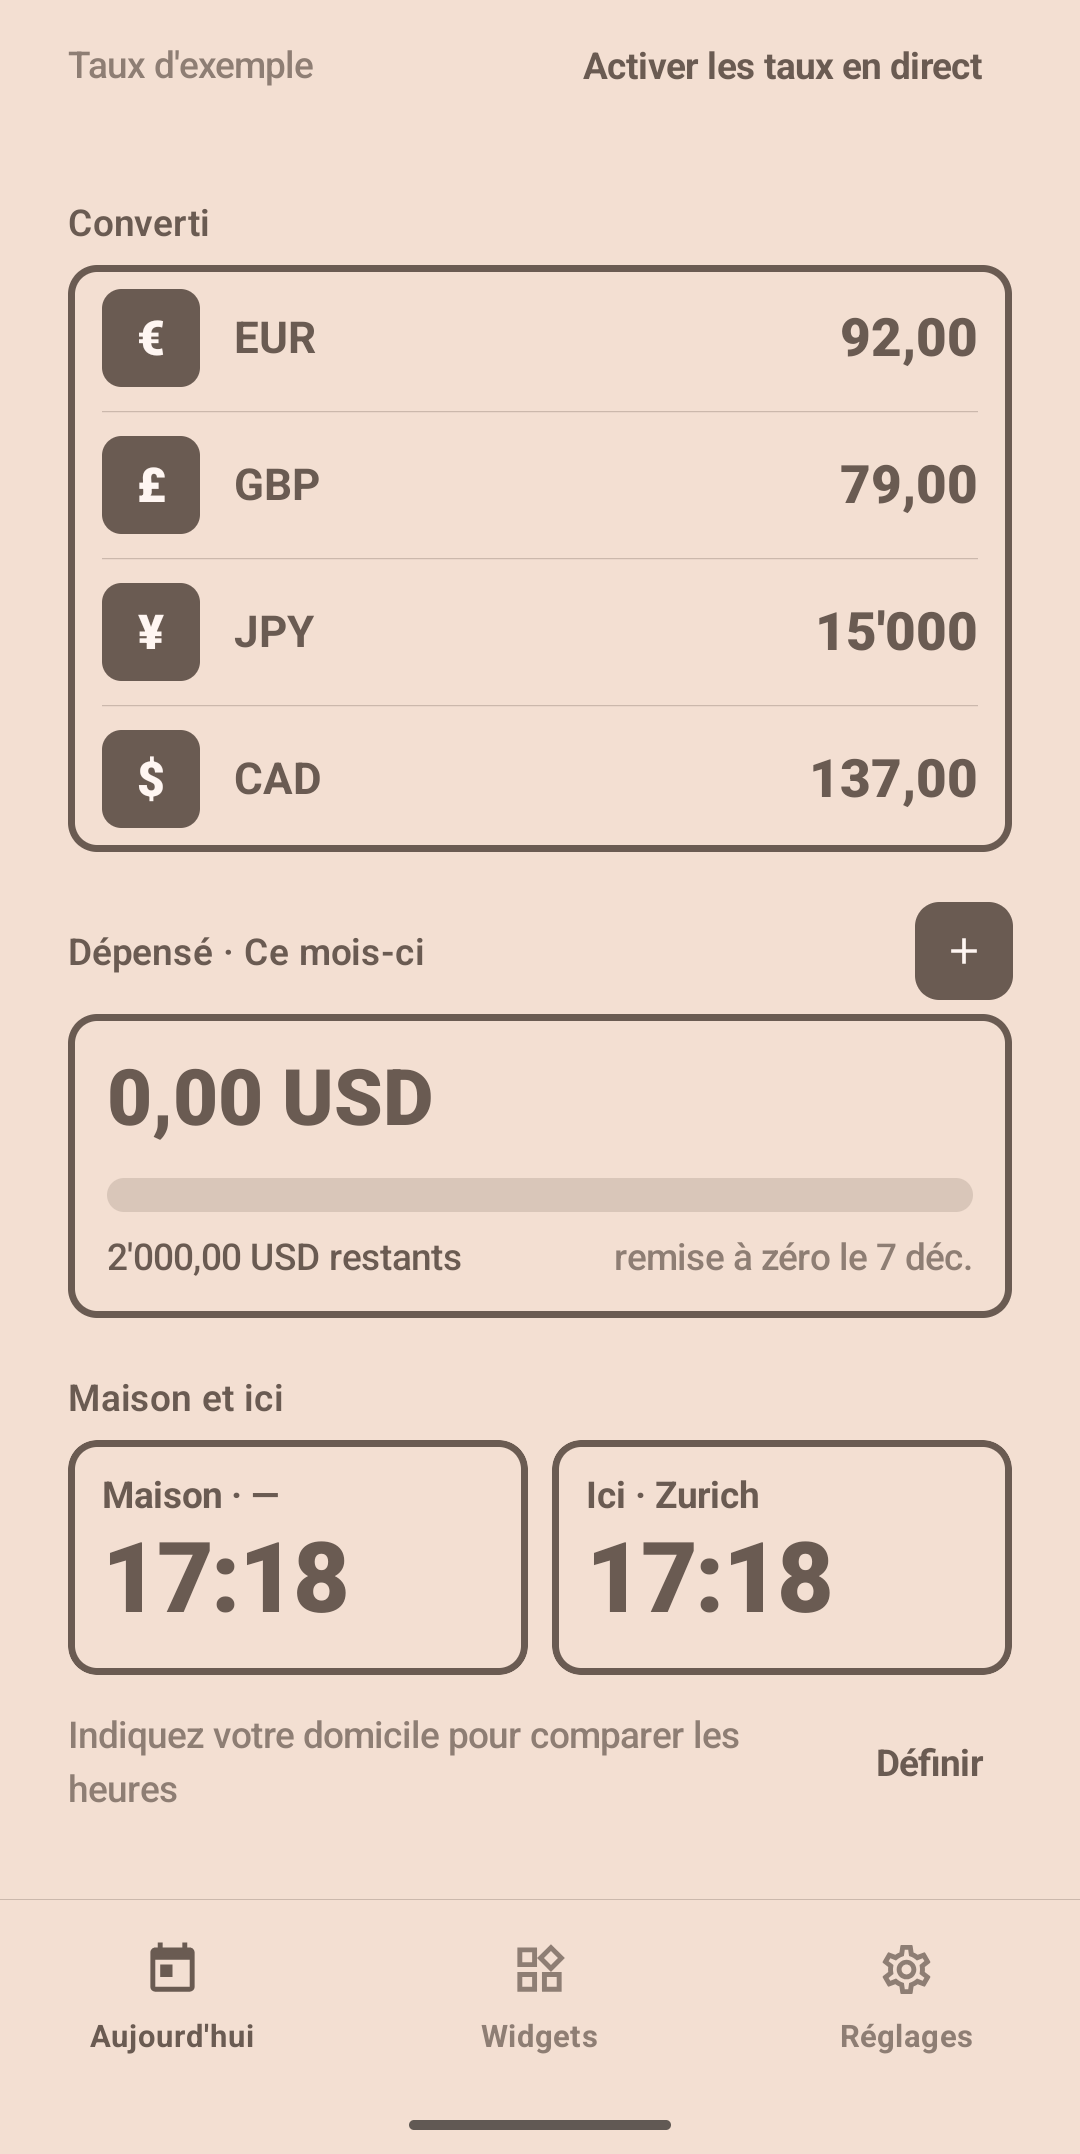
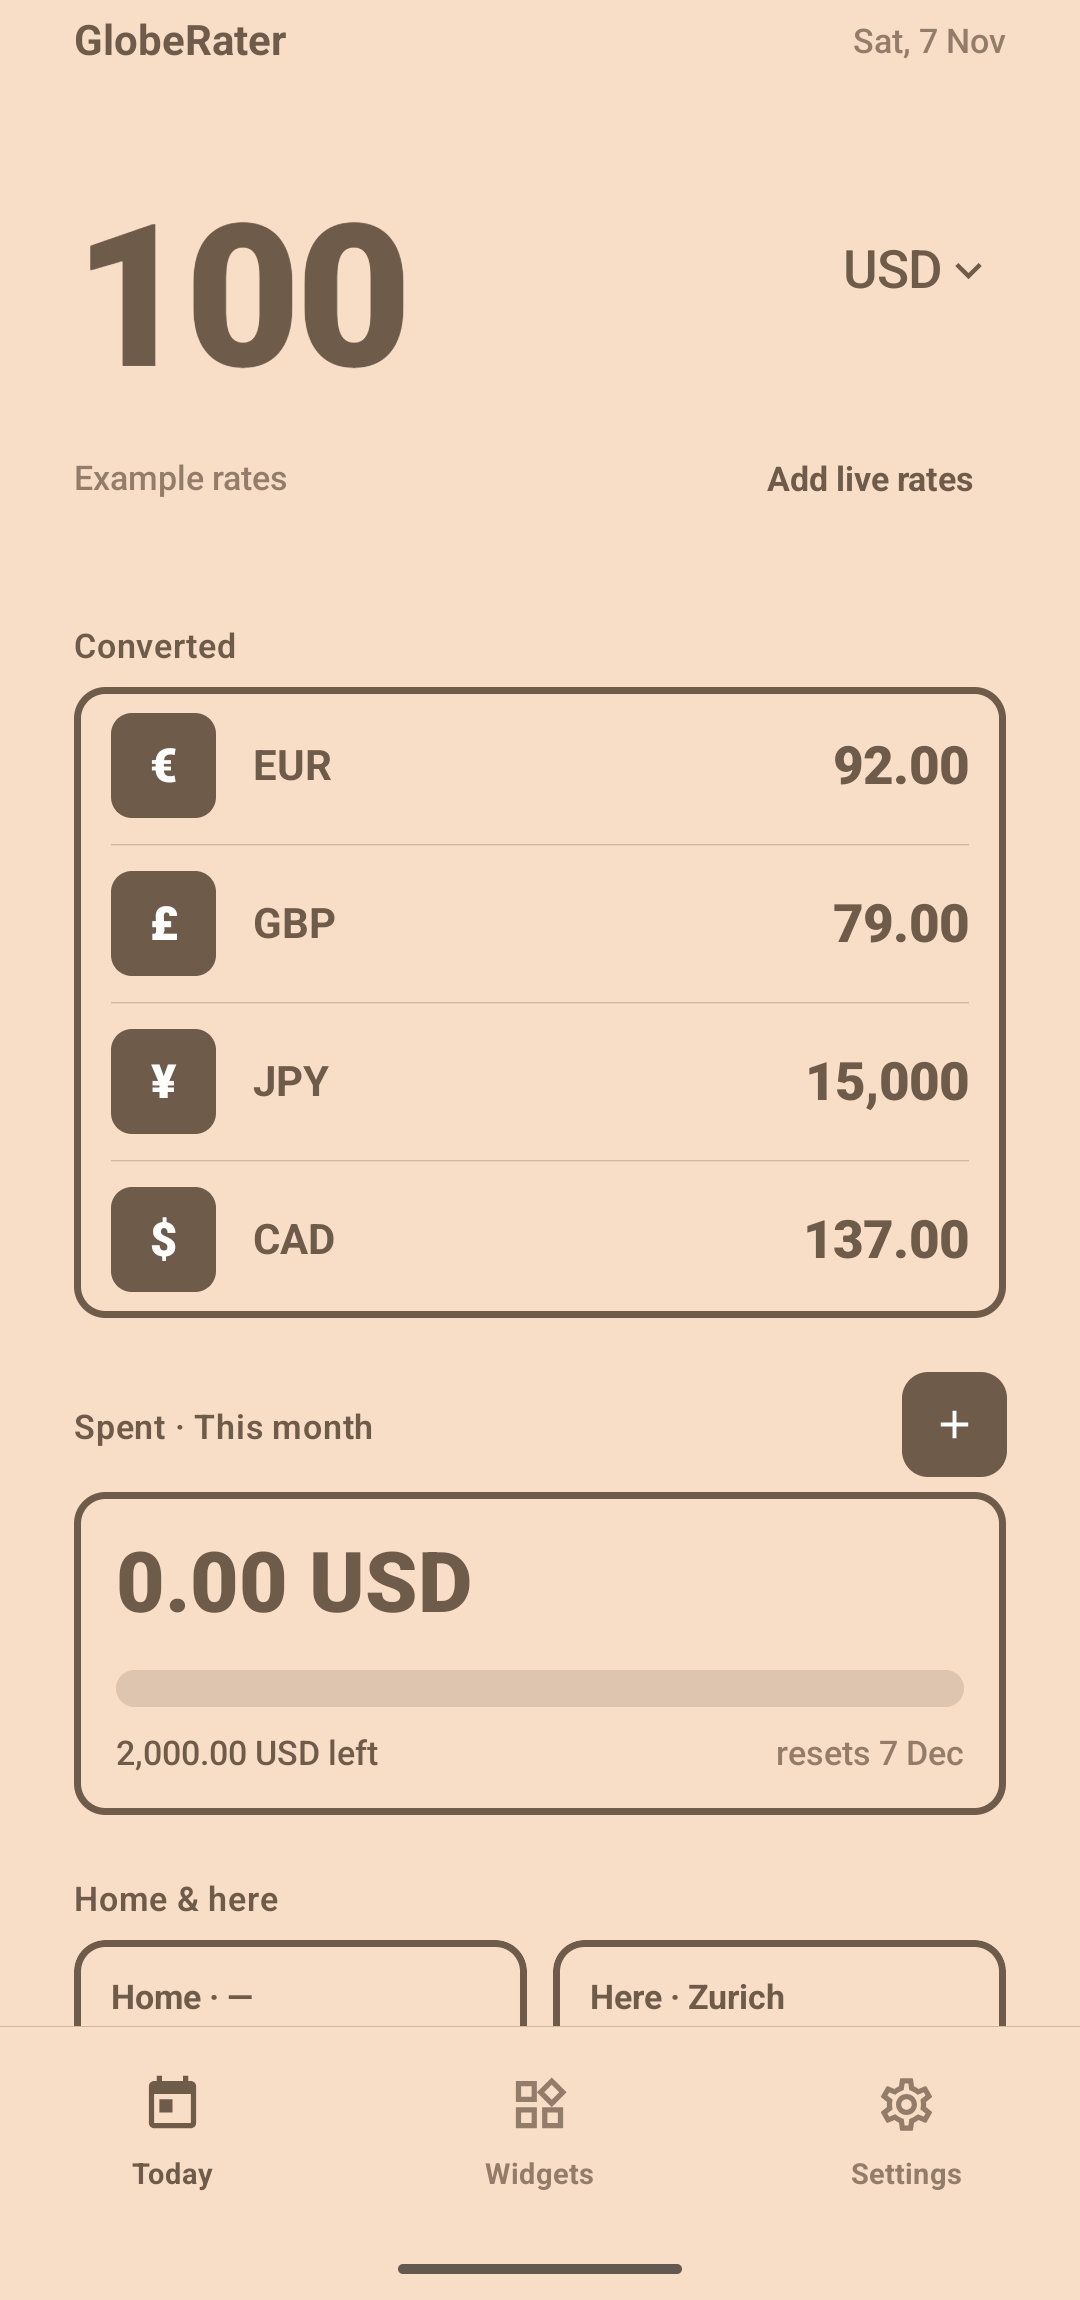
Docs: sober light/dark screenshots and widget gallery

diff --git a/docs/index.html b/docs/index.html
@@ -34,7 +34,9 @@
   .shot { border: 2.5px solid var(--ink); border-radius: 28px; overflow: hidden; background: var(--bg); position: relative; z-index: 1; }
   .shot.back { position: absolute; top: 0; right: 0; width: 78%; z-index: 0; transform: rotate(4deg); }
   .shot img { display: block; width: 100%; }
-  .grid { display: grid; grid-template-columns: repeat(3, 1fr); gap: 16px; margin-top: 64px; }
+  .widgets { margin: 72px 0 0; }
+  .widgets img { display: block; width: 100%; max-width: 720px; margin: 0 auto; border-radius: 18px; }
+  .grid { display: grid; grid-template-columns: repeat(3, 1fr); gap: 16px; margin-top: 40px; }
   .card { border: 2.5px solid var(--ink); border-radius: 12px; padding: 20px; }
   .card h2 { font-size: 18px; font-weight: 900; margin: 0 0 8px; }
   .card p { margin: 0; color: var(--ink-soft); font-size: 15px; }
@@ -63,6 +65,8 @@
       <div class="shot back"><img src="screenshots/today-dark.png" alt="Today screen, dark mode"></div>
     </div>
   </section>
+
+  <figure class="widgets"><img src="screenshots/widgets.png" alt="Converter, budget, clock and weather widgets"></figure>
 
   <section class="grid">
     <div class="card">

diff --git a/README.md b/README.md
@@ -22,6 +22,10 @@
 
 ## What it does
 
+<p align="center">
+  <img src="docs/screenshots/widgets.png" width="640" alt="Converter, budget, clock and weather widgets">
+</p>
+
 **Currency widgets.** A keypad right on the home screen: type an amount and see it in up to five currencies at once. Rates come from [Open Exchange Rates](https://openexchangerates.org/signup/free) (a free key is enough) and are stored on the phone, so the widgets keep working offline.
 
 **Budget widgets.** Set a budget per day, week, month or year. Every converter with a budget has a **+** key that adds what you just typed. The bar, or the whole background on the compact widget, fills up as you spend, and starts over at the beginning of each period.
